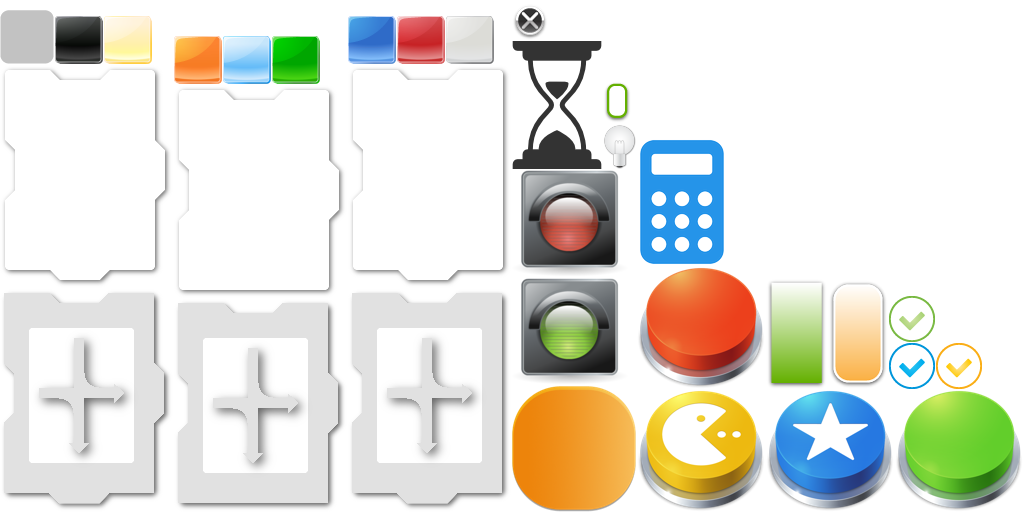
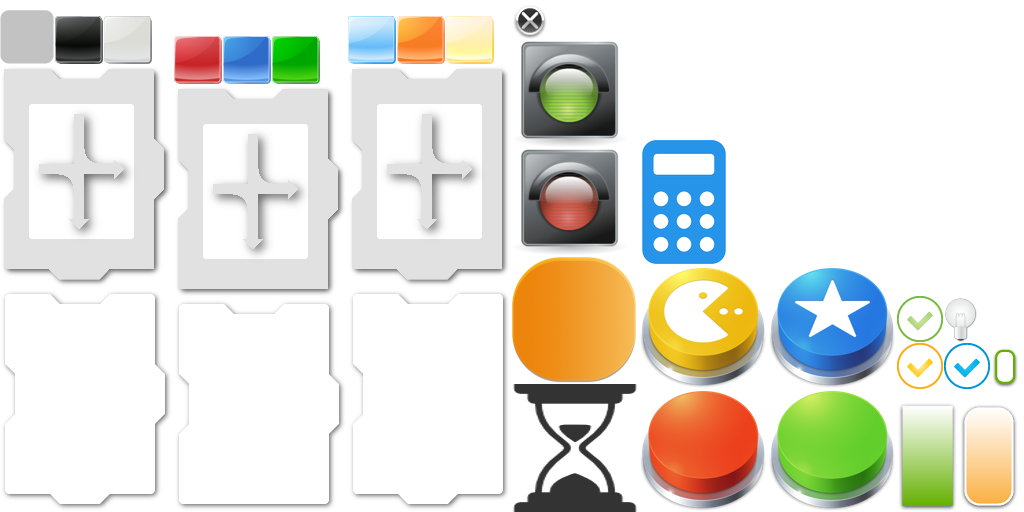
Change execute chuck color blue -> green
Update image resource and size

diff --git a/Assets/Scripts/Chuck.cs b/Assets/Scripts/Chuck.cs
@@ -16,7 +16,7 @@ public class Chuck : MonoBehaviour {
 	public int actionGuid;
 
 	Color inputColor = new Color (1f, 0.5f, 0.5f);
-	Color outputColor = new Color (0.5f, 0.5f, 1f);
+	Color outputColor = new Color (0f, 200/255f, 100/255f);
 	Color normalColor = new Color (230f/255f, 180f/255f, 30f/255f);
 
 	public enum eChuckStatus {
